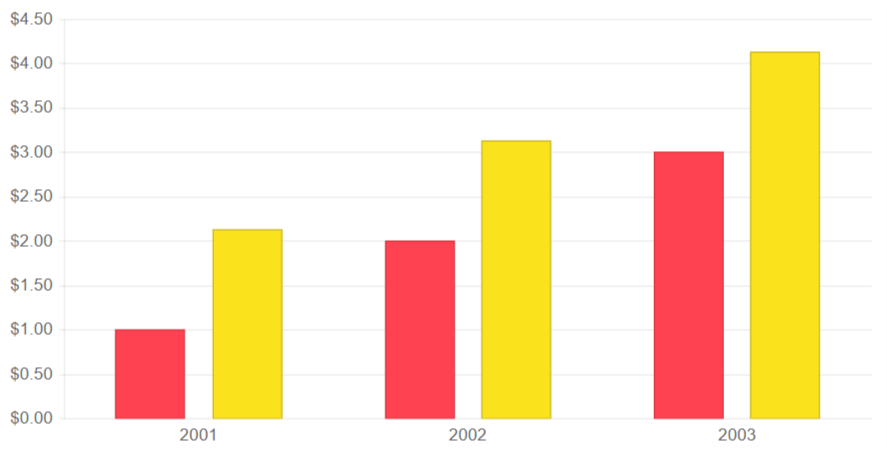
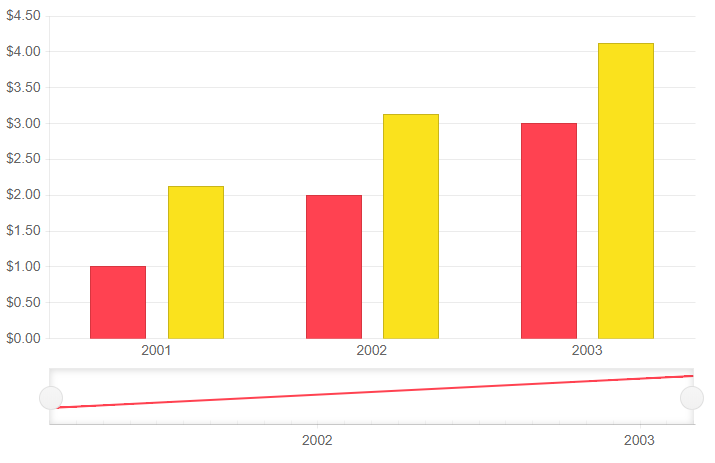
chore(stockchart): added navigator to column type chart

diff --git a/components/stockchart/types/column.md b/components/stockchart/types/column.md
@@ -56,6 +56,17 @@ Column series
         </StockChartSeries>
     </StockChartSeriesItems>
 
+    <StockChartNavigator>
+        <StockChartNavigatorSeriesItems>
+            <StockChartNavigatorSeries Type="StockChartSeriesType.Line"
+                                       Name="Product 1"
+                                       Data="@Data"
+                                       Field="@(nameof(ChartSeriesData.Product1Sales))"
+                                       CategoryField="@(nameof(ChartSeriesData.Year))">
+            </StockChartNavigatorSeries>
+        </StockChartNavigatorSeriesItems>
+    </StockChartNavigator>
+
 </TelerikStockChart>
 
 @code {
